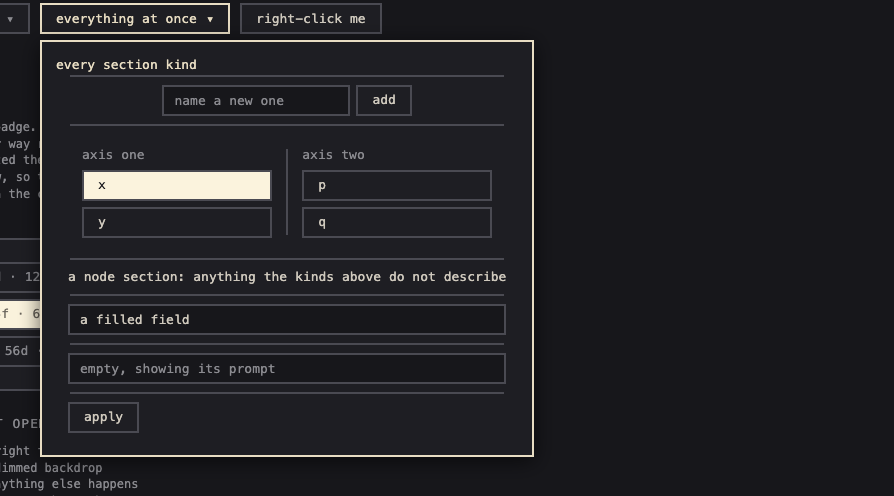
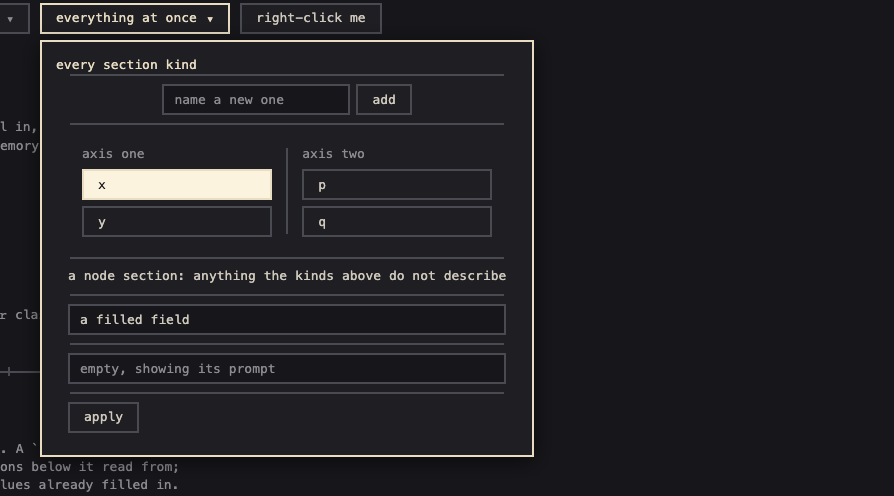
retook the readme screenshots for v0.2.6 and measured the controls crop so the focus section cannot push columns off it
Claude-Session: https://claude.ai/code/session_01BBVRxxmjpuxx7LdN41TbsX

diff --git a/tools/shoot_readme_images.py b/tools/shoot_readme_images.py
@@ -38,11 +38,13 @@ def open_tab(page: Page, tab: str) -> None:
 
 def shoot_controls(page: Page) -> None:
     open_tab(page, "controls")
-    # the toggle row plus columns-and-dividers, which is what the caption describes
+    # from the toggle row down to the tree heading, which is what the caption describes
+    # [measured, so a section added above columns-and-dividers never crops it off]
     box = page.eval_on_selector(
         ".tab-panel[data-panel='controls']",
         "el => { const r = el.getBoundingClientRect(); "
-        "return {x: r.x, y: r.y, width: 900, height: 780}; }",
+        "const end = [...el.querySelectorAll('h2')].find(h => h.textContent === 'tree'); "
+        "return {x: r.x, y: r.y, width: 900, height: end.getBoundingClientRect().y - r.y - 8}; }",
     )
     page.screenshot(path=str(OUT / "controls.png"), clip=box)
     print("wrote", OUT / "controls.png")

diff --git a/README.md b/README.md
@@ -129,7 +129,7 @@ token with its contrast, and a test fails if a hue arrives without being named i
 
 ### Controls
 
-![Toggles, the two coloured verbs, columns with a divider](docs/images/controls.png)
+![Toggles, the one focus look on a button, a field, a link and a summary, the two coloured verbs, columns with a divider](docs/images/controls.png)
 
 **One clickable class**, `.toggle`, for buttons, list rows, filter pills and dropdown heads. **Only
 two verbs get a colour**: one that adds and one that takes away. Everything else stays grey, because
